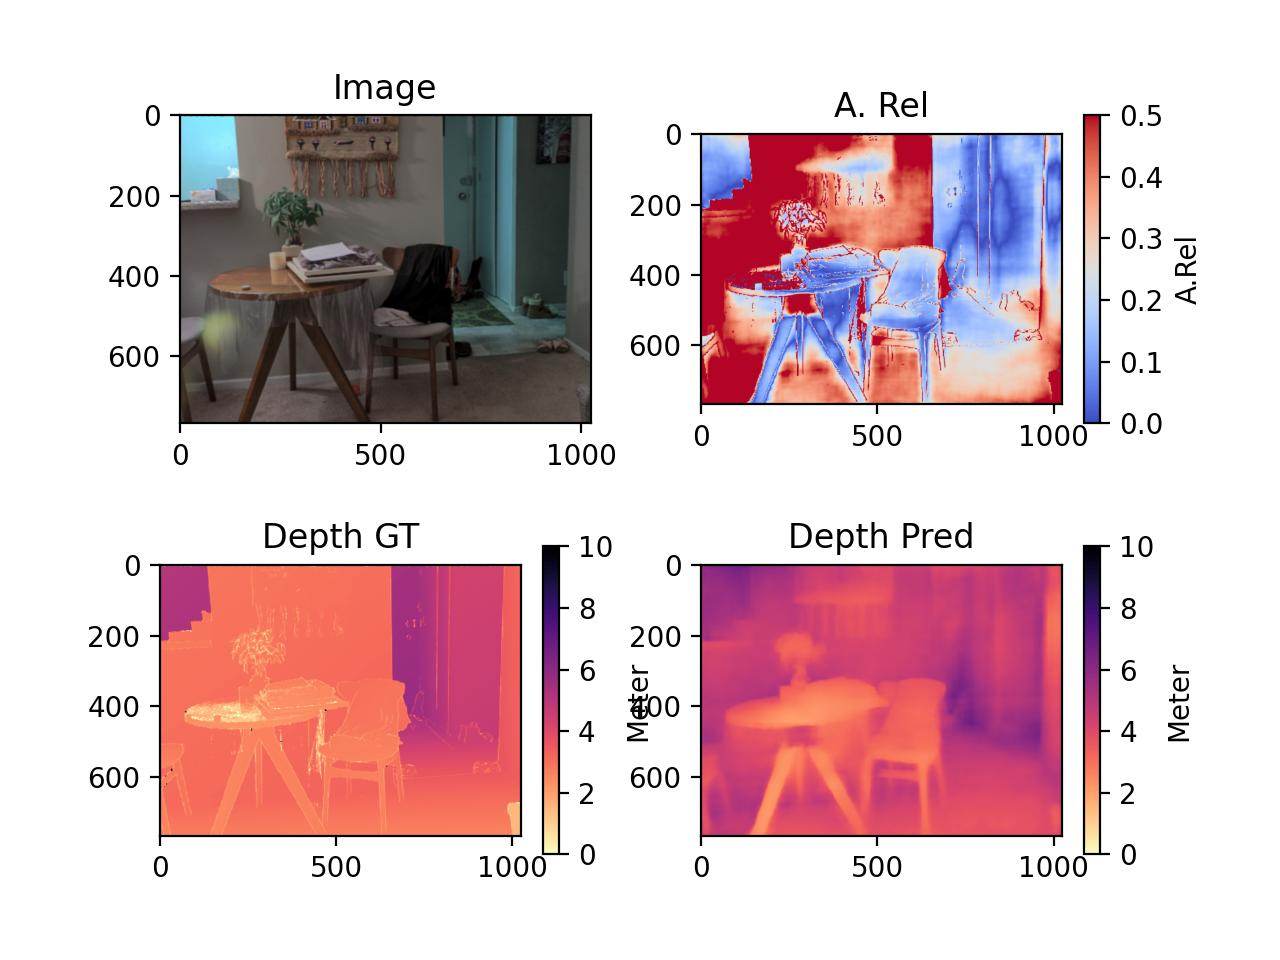
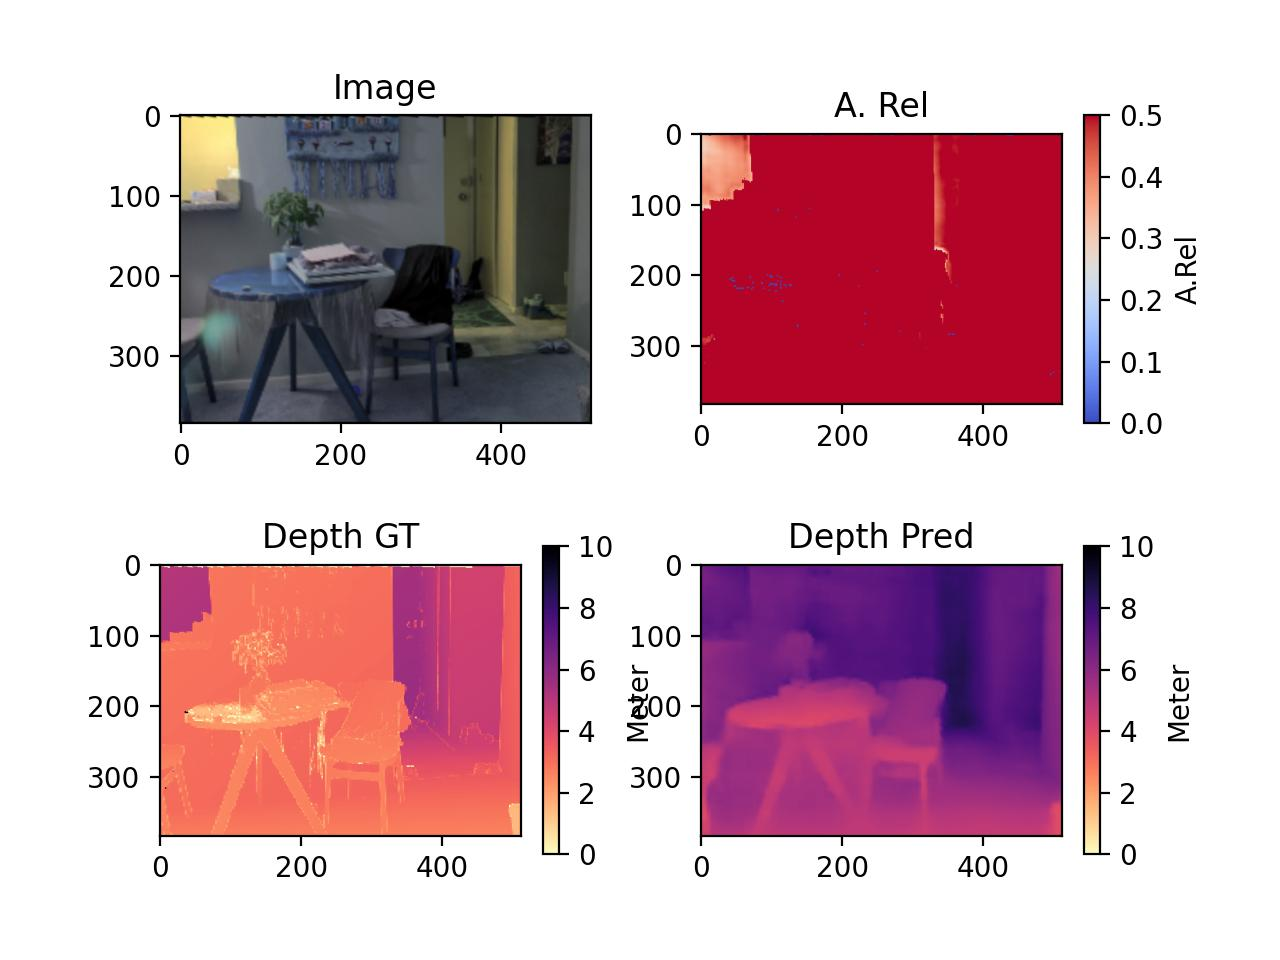
修改缩放

diff --git a/my_demo/video.py b/my_demo/video.py
@@ -30,42 +30,36 @@ from dac.utils.unproj_pcd import reconstruct_pcd, reconstruct_pcd_erp
 from dac.utils.erp_geometry import erp_patch_to_cam_fast, cam_to_erp_patch_fast, fisheye_mei_to_erp
 from dac.dataloders.dataset import resize_for_input
 import torchvision.transforms.functional as TF
+from ultralytics import YOLOWorld
 
 # 可视化缩放因子
-DISPLAY_SCALE = 2
-
-
-def mouse_callback(event, x, y, flags, param):
+DISPLAY_SCALE = 1
+            
+            
+def bound_callback(x, y, param):
+    pred_depth_map = param['pred_depth_map']  # 模型预测的深度图
+    gt_depth_map = param['gt_depth_map']      # 真实深度图
     
-    if event == cv2.EVENT_LBUTTONDOWN:
-        pred_depth_map = param['pred_depth_map']  # 模型预测的深度图
-        gt_depth_map = param['gt_depth_map']      # 真实深度图
-        
-        # 由于窗口大小与图像一致，直接使用点击坐标
-        x_original = int(x/DISPLAY_SCALE)
-        y_original = int(y/DISPLAY_SCALE)
-        
-        # 检查坐标是否在有效范围内
-        if 0 <= x_original < pred_depth_map.shape[1] and 0 <= y_original < pred_depth_map.shape[0]:
-            pred_depth_value = pred_depth_map[y_original, x_original]   # 获取预测深度值
-            gt_depth_value = gt_depth_map[y_original, x_original]       # 获取真实深度值
-            print(f"prediction: {pred_depth_value:.3f}m, ground truth: {gt_depth_value:.3f}m")
-            param['last_click'] = (x_original, y_original)
-            param['click_history'].append({
-                    'position': (x_original*DISPLAY_SCALE, y_original*DISPLAY_SCALE),
-                    'pred': pred_depth_value,
-                    'gt': gt_depth_value
-            })
-        else:
-            print("警告：点击位置超出深度图范围")
+    x_original = x
+    y_original = y
+
+    # 检查坐标是否在有效范围内
+    if 0 <= x_original < pred_depth_map.shape[1] and 0 <= y_original < pred_depth_map.shape[0]:
+        pred_depth_value = pred_depth_map[y_original, x_original]   # 获取预测深度值
+        gt_depth_value = gt_depth_map[y_original, x_original]       # 获取真实深度值
+        depth = [pred_depth_value,gt_depth_value]
+        print(depth)
+        return depth
+    else:
+        return 0
+            
 
 def demo_one_sample(model, model_name, device, sample, cano_sz, args: argparse.Namespace, if_suofang=False):
     #######################################################################
     ############# data prepare (A simple version dataloader) ##############
     #######################################################################
-    
     if if_suofang:
-        suofang(input_image=sample["oringinal_img"],depth_file=sample["oringinal_depth"],output_folder=sample["output_folder"], save = True)
+        suofang(input_image=sample["oringinal_img"],depth_file=sample["oringinal_depth"],output_folder=sample["output_folder"])
     
     image = np.asarray(
         Image.open(sample["image_filename"])
@@ -275,49 +269,62 @@ def demo_one_sample(model, model_name, device, sample, cano_sz, args: argparse.N
         # print(depth_out.shape)
         # print(depth_out_gt.shape)
         # print(depth_vis.shape)
-        depth_out_full = cv2.resize(depth_out[0, 0].cpu().numpy(), (org_img_w, org_img_h), interpolation=cv2.INTER_LINEAR)
-        depth_out_gt_full = cv2.resize(depth_out_gt[0, 0].cpu().numpy(), (org_img_w, org_img_h), interpolation=cv2.INTER_LINEAR)
-        
-        cv2.namedWindow('Depth Map')
-        callback_params = {
-            'pred_depth_map': depth_out_full,  # 模型预测的深度图
-            'gt_depth_map': depth_out_gt_full,              # 真实深度图
-            'last_click': None,
-            'display_size': (org_img_w, org_img_h),
-            'original_size': (org_img_w, org_img_h),  # 原始深度图尺寸
-            'click_history': []
-        }
-        cv2.setMouseCallback('Depth Map', mouse_callback, callback_params)
-        font = cv2.FONT_HERSHEY_SIMPLEX
-        print("点击深度图上的任意位置显示深度值，按'q'退出")
-        
-    #交互
-    while True:
-        display_img = cv2.cvtColor(rgb, cv2.COLOR_RGB2BGR)
-        resize_img = cv2.resize(display_img, (0, 0), fx=DISPLAY_SCALE, fy=DISPLAY_SCALE)
-        # display_img = depth_vis.copy()
-        # 获取鼠标回调中保存的最后点击位置
-        last_click = callback_params['last_click']
-        for click in callback_params['click_history']:
-            x, y = click['position']
-            pred_depth_value = click['pred']
-            gt_depth_value = click['gt']
-            text_pred = f"pred:{pred_depth_value:.3f}"
-            text_gt = f"GT:{gt_depth_value:.3f}"
-            cv2.putText(resize_img, text_pred, (x+5, y-8), font, 0.5, (255, 255, 255), 1)
-            cv2.putText(resize_img, text_gt, (x+5, y+8), font, 0.5, (255, 255, 255), 1)
-            cv2.circle(resize_img, (x, y), 2, (0, 255, 255), -1)
-            # cv2.putText(display_img, text, (x+10, y-10), font, 0.6, (255, 255, 255), 2)
-
-        cv2.imshow('Depth Map', resize_img)
-        key = cv2.waitKey(1) & 0xFF
-        if key == ord('q'):
-            break
-        elif key == ord('o'):  # 按下o键清除点击记录
-            callback_params['last_click'] = None
-            callback_params['click_history'] = []
-    cv2.destroyAllWindows()
+    depth_out_full = cv2.resize(depth_out[0, 0].cpu().numpy(), (org_img_w, org_img_h), interpolation=cv2.INTER_LINEAR)
+    depth_out_gt_full = cv2.resize(depth_out_gt[0, 0].cpu().numpy(), (org_img_w, org_img_h), interpolation=cv2.INTER_LINEAR)
     
+    cv2.namedWindow('Depth Map')
+    callback_params = {
+        'pred_depth_map': depth_out_full,  # 模型预测的深度图
+        'gt_depth_map': depth_out_gt_full,              # 真实深度图
+        'last_click': None,
+        'display_size': (org_img_w, org_img_h),
+        'original_size': (org_img_w, org_img_h),  # 原始深度图尺寸
+    }
+    font = cv2.FONT_HERSHEY_SIMPLEX
+    
+    #交互
+    img = cv2.cvtColor(rgb, cv2.COLOR_RGB2BGR)
+    
+    #yolo
+    yolo_model = YOLOWorld(args.yolo_model)
+    if not if_suofang:
+        results = yolo_model.predict(img)
+    else:
+        results = yolo_model.predict(sample["oringinal_img"])
+    boxes = results[0].boxes  # 包含边界框的对象
+    display_img = results[0].orig_img.copy()
+    for box in boxes:
+        coordinates = box.xywh.tolist()[0]
+        x1, y1, x2, y2 = map(int, box.xyxy[0].tolist())
+        cv2.rectangle(display_img, (x1,y1), (x2,y2), (0,255,0), 2)
+        x = int(coordinates[0])
+        y = int(coordinates[1])
+        if if_suofang:
+            x = x
+            y = y
+        print(f"坐标 (x,y,w,h): {coordinates}")
+        class_id = int(box.cls)
+        class_name = yolo_model.names[class_id]  # 获取类名
+    
+        #dac
+        if if_suofang:
+            depth_value = bound_callback(x//2, y//2 ,callback_params)
+        else:
+            depth_value = bound_callback(x,y,callback_params)
+        pred_depth_value = depth_value[0]
+        gt_depth_value = depth_value[1]
+        text_pred = f"depth:{pred_depth_value:.3f}"
+        cv2.putText(display_img, text_pred, (x1, y1-8), font, 0.5, (255, 255, 255), 1)
+        cv2.putText(display_img, class_name, (x1, y1-20), font, 0.5, (255, 255, 255), 1)
+        # cv2.putText(display_img, text_gt, (x+5, y+8), font, 0.5, (255, 255, 255), 1)
+        cv2.circle(display_img, (x, y), 2, (0, 255, 255), -1)
+    
+    while True:
+        cv2.imshow('Depth Map', display_img)
+        key = cv2.waitKey(1) & 0xFF
+        if key == ord('q'):  # 按q键退出
+            break
+    cv2.destroyAllWindows()
     # print(rgb.shape,depth_out_full.shape,depth_out_gt_full.shape)
         
 
@@ -329,7 +336,7 @@ if __name__ == "__main__":
     parser.add_argument("--model-file", type=str, default="checkpoints/dac_swinl_indoor.pt")
     parser.add_argument("--sample-file", type=str, default='data/diode_test.json')
     parser.add_argument("--out-dir", type=str, default='output')
-    # parser.add_argument("--save-pcd", action="store_true")
+    parser.add_argument("--yolo-model", type=str, default="/home/jack/YOLO_World/yolov8/yolov8s-world.pt")
 
     args = parser.parse_args()  #这行代码会将这些命令行参数解析并存储在 args 对象中
     with open(args.config_file, "r") as f:
@@ -345,5 +352,12 @@ if __name__ == "__main__":
     with open(args.sample_file, "r") as f:
         sample = json.load(f)
     print(f"demo for sample from {sample['dataset_name']}")
-    demo_one_sample(model, config["model_name"], device, sample, cano_sz, args, if_suofang=True)
+    cap = cv2.VideoCapture('demo/input/phone_video.mp4')
+    while(cap.isOpened()):
+        ret, frame = cap.read()
+        rgb_frame = cv2.cvtColor(frame, cv2.COLOR_BGR2RGB)
+        if ret == True:
+            demo_one_sample(model, config["model_name"], device, sample, cano_sz, rgb_frame, args)
+        else:
+            break
     print("Demo finished")

diff --git a/my_demo/picture.py b/my_demo/picture.py
@@ -59,11 +59,15 @@ def demo_one_sample(model, model_name, device, sample, cano_sz, args: argparse.N
     ############# data prepare (A simple version dataloader) ##############
     #######################################################################
     if if_suofang:
-        suofang(input_image=sample["oringinal_img"],depth_file=sample["oringinal_depth"],output_folder=sample["output_folder"])
-    
-    image = np.asarray(
-        Image.open(sample["image_filename"])
-    )
+        image,depth = suofang(input_image=sample["image_filename"],depth_file=sample["annotation_filename_depth"])
+    else:
+        image = np.asarray(
+            Image.open(sample["image_filename"])
+        )
+        if sample["annotation_filename_depth"] is not None:
+            depth = np.load(sample["annotation_filename_depth"])
+        
+        
     org_img_h, org_img_w = image.shape[:2]
     if sample["annotation_filename_depth"] is None:
         depth = np.zeros((org_img_h, org_img_w), dtype=np.float32)
@@ -74,7 +78,7 @@ def demo_one_sample(model, model_name, device, sample, cano_sz, args: argparse.N
         #     ).astype(np.float32)
         #     / sample["depth_scale"]
         # )
-        depth = np.load(sample["annotation_filename_depth"])
+        # depth = np.load(sample["annotation_filename_depth"])
         if depth.ndim == 2:
             depth = depth[..., np.newaxis]  # 添加通道维度
         if depth.dtype == np.uint16:
@@ -95,7 +99,7 @@ def demo_one_sample(model, model_name, device, sample, cano_sz, args: argparse.N
         phi = np.array(0).astype(np.float32)
         roll = np.array(0).astype(np.float32)
         theta = 0
-
+        
         image = image.astype(np.float32) / 255.0
         if depth.ndim == 2:
             depth = np.expand_dims(depth, axis=2)
@@ -287,10 +291,7 @@ def demo_one_sample(model, model_name, device, sample, cano_sz, args: argparse.N
     
     #yolo
     yolo_model = YOLOWorld(args.yolo_model)
-    if not if_suofang:
-        results = yolo_model.predict(img)
-    else:
-        results = yolo_model.predict(sample["oringinal_img"])
+    results = yolo_model.predict(sample["image_filename"])
     boxes = results[0].boxes  # 包含边界框的对象
     display_img = results[0].orig_img.copy()
     for box in boxes:
@@ -334,7 +335,7 @@ if __name__ == "__main__":
 
     parser.add_argument("--config-file", type=str, default="checkpoints/dac_swinl_indoor.json")
     parser.add_argument("--model-file", type=str, default="checkpoints/dac_swinl_indoor.pt")
-    parser.add_argument("--sample-file", type=str, default='data/diode_test.json')
+    parser.add_argument("--sample-file", type=str, default='data/laptop.json')
     parser.add_argument("--out-dir", type=str, default='output')
     parser.add_argument("--yolo-model", type=str, default="/home/jack/YOLO_World/yolov8/yolov8s-world.pt")
 
@@ -352,5 +353,5 @@ if __name__ == "__main__":
     with open(args.sample_file, "r") as f:
         sample = json.load(f)
     print(f"demo for sample from {sample['dataset_name']}")
-    demo_one_sample(model, config["model_name"], device, sample, cano_sz, args, if_suofang=True)
+    demo_one_sample(model, config["model_name"], device, sample, cano_sz, args, if_suofang=False)
     print("Demo finished")

diff --git a/suofang.py b/suofang.py
@@ -5,9 +5,10 @@ import numpy as np
 from scipy.ndimage import zoom
 
 # 方法1：使用OpenCV
-def resize_half_opencv(input_path, output_dir):
-    # 创建输出目录
-    os.makedirs(output_dir, exist_ok=True)
+def resize_half_opencv(input_path, output_dir, save = False):
+    if save:
+        # 创建输出目录
+        os.makedirs(output_dir, exist_ok=True)
     
     # 读取图像
     img = cv2.imread(input_path)
@@ -20,16 +21,20 @@ def resize_half_opencv(input_path, output_dir):
     new_size = (w//2, h//2)
 
     # 缩放图像
-    resized = cv2.resize(img, new_size, interpolation=cv2.INTER_AREA)
+    resized = cv2.resize(img, new_size, interpolation=cv2.INTER_LINEAR)
+    resized_rgb = cv2.cvtColor(resized, cv2.COLOR_BGR2RGB)
     
-    # 保存结果
-    output_path = os.path.join(output_dir, os.path.basename(input_path))
-    cv2.imwrite(output_path, resized)
-    print(f"已保存：{output_path}")
+    if save:
+        # 保存结果
+        output_path = os.path.join(output_dir, os.path.basename(input_path))
+        cv2.imwrite(output_path, resized)
+        print(f"已保存：{output_path}")
+    return resized
     
     
-def resize_depth_npy(input_path, output_dir, method='nearest'):
-    os.makedirs(output_dir, exist_ok=True)
+def resize_depth_npy(input_path, output_dir, save = False, method='nearest'):
+    if save:
+        os.makedirs(output_dir, exist_ok=True)
     
     try:
         depth = np.load(input_path)
@@ -73,12 +78,14 @@ def resize_depth_npy(input_path, output_dir, method='nearest'):
         # 保持数据类型一致
         resized = resized.astype(depth.dtype)
         
-        # 保存结果
-        filename = os.path.basename(input_path)
-        output_path = os.path.join(output_dir, filename)
-        np.save(output_path, resized)
-        print(f"深度图已保存：{output_path}")
-        
+        if save:
+            # 保存结果
+            filename = os.path.basename(input_path)
+            output_path = os.path.join(output_dir, filename)
+            np.save(output_path, resized)
+            print(f"深度图已保存：{output_path}")
+        return resized
+            
     except Exception as e:
         print(f"处理失败：{str(e)}")
         if 'depth' in locals():
@@ -86,10 +93,14 @@ def resize_depth_npy(input_path, output_dir, method='nearest'):
             print(f"数据类型：{depth.dtype}")
             print(f"数据范围：[{depth.min()}, {depth.max()}]")
             
-def suofang(input_image,depth_file,output_folder):
-    if not depth_file == None:
-        resize_depth_npy(depth_file, output_folder, method='nearest')
-    resize_half_opencv(input_image, output_folder)
+def suofang(input_image,depth_file,output_folder = None,save = False):
+    rgb_result = resize_half_opencv(input_image, output_folder, save)
+    org_img_h, org_img_w = rgb_result.shape[:2]
+    depth_result = np.zeros((org_img_h, org_img_w), dtype=np.float32)
+    if depth_file is not None:
+        depth_result = resize_depth_npy(depth_file, output_folder, save, method='nearest')
+
+    return rgb_result, depth_result
 
 
 
